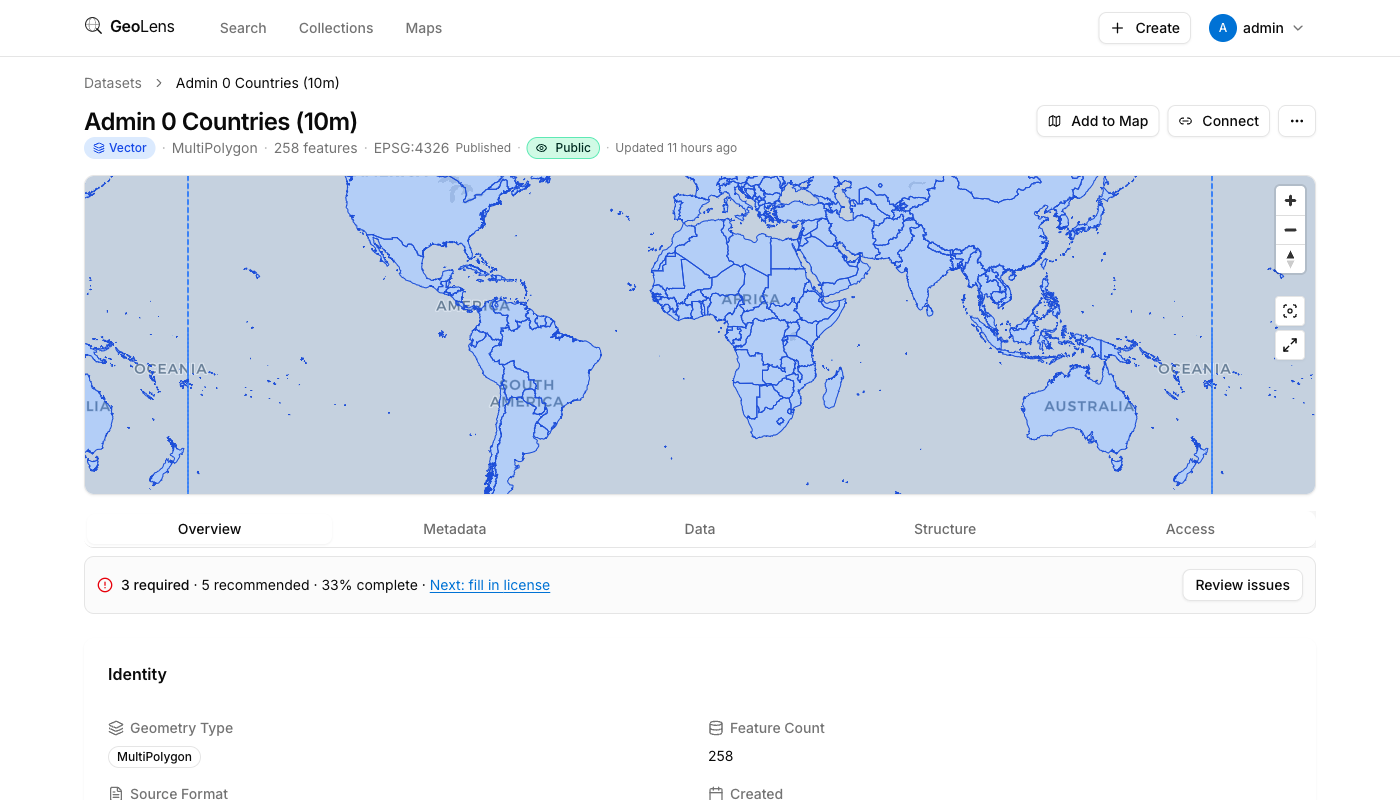
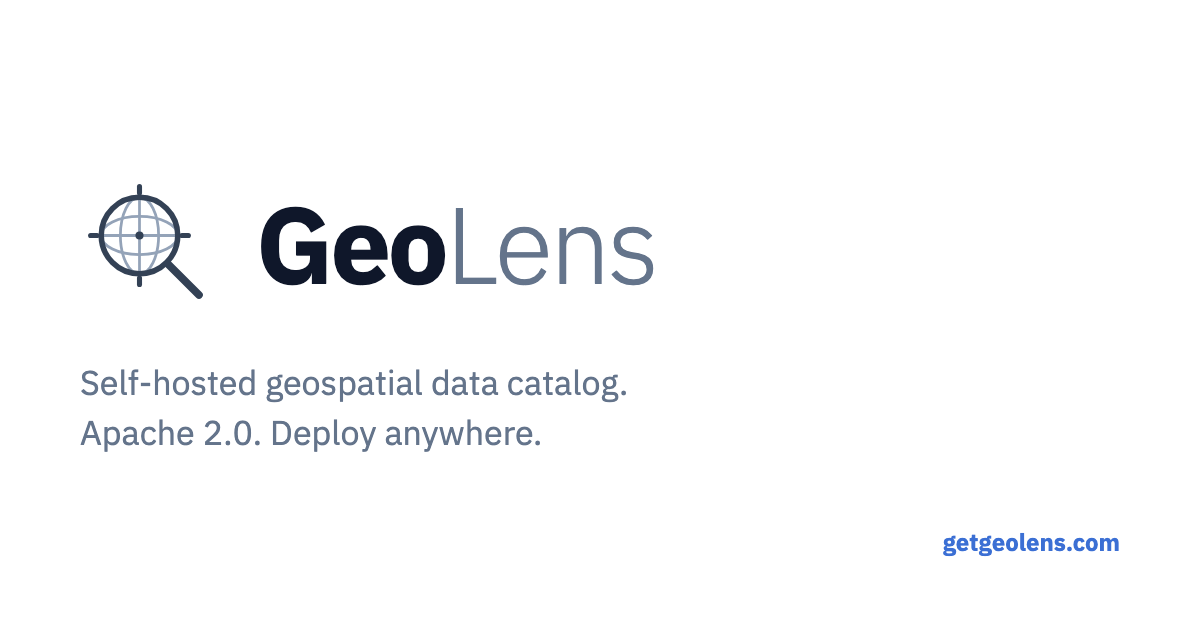
chore(branding): sync og-image from branding v0.2.0, align meta descriptions (#383)
* chore(branding): sync og-image from branding v0.2.0, align meta descriptions

The app og:image predated branding v0.1.0 (it was a raw 1400x800 app
screenshot). branding v0.2.0 ships the canonical 1200x630 social card
(emblem + wordmark + tagline), so sync it and mark the file managed in
BRANDING-VERSION. Also drop the pre-#375 'OGC standards compliance'
phrasing from the index.html meta descriptions in favor of 'OGC API
support', and declare og:image dimensions for scrapers.

* chore(branding): drop compliance phrasing from PWA manifest description too

---------

diff --git a/frontend/index.html b/frontend/index.html
@@ -17,14 +17,16 @@
     <link rel="icon" type="image/png" sizes="64x64" href="/favicon-64.png" />
     <link rel="apple-touch-icon" sizes="180x180" href="/apple-touch-icon.png" />
     <link rel="manifest" href="/manifest.webmanifest" />
-    <meta name="description" content="Open-source spatial data catalog with search, map builder, and OGC standards compliance. Upload, discover, visualize, and share geospatial data." />
+    <meta name="description" content="Open-source spatial data catalog with search, map builder, and OGC API support. Upload, discover, visualize, and share geospatial data." />
     <meta property="og:title" content="GeoLens" />
-    <meta property="og:description" content="Open-source spatial data catalog with search, map builder, and OGC standards compliance." />
+    <meta property="og:description" content="Open-source spatial data catalog with search, map builder, and OGC API support." />
     <meta property="og:type" content="website" />
     <meta property="og:image" content="/og-image.png" />
+    <meta property="og:image:width" content="1200" />
+    <meta property="og:image:height" content="630" />
     <meta name="twitter:card" content="summary_large_image" />
     <meta name="twitter:title" content="GeoLens" />
-    <meta name="twitter:description" content="Open-source spatial data catalog with search, map builder, and OGC standards compliance." />
+    <meta name="twitter:description" content="Open-source spatial data catalog with search, map builder, and OGC API support." />
     <title>GeoLens</title>
   </head>
   <body>